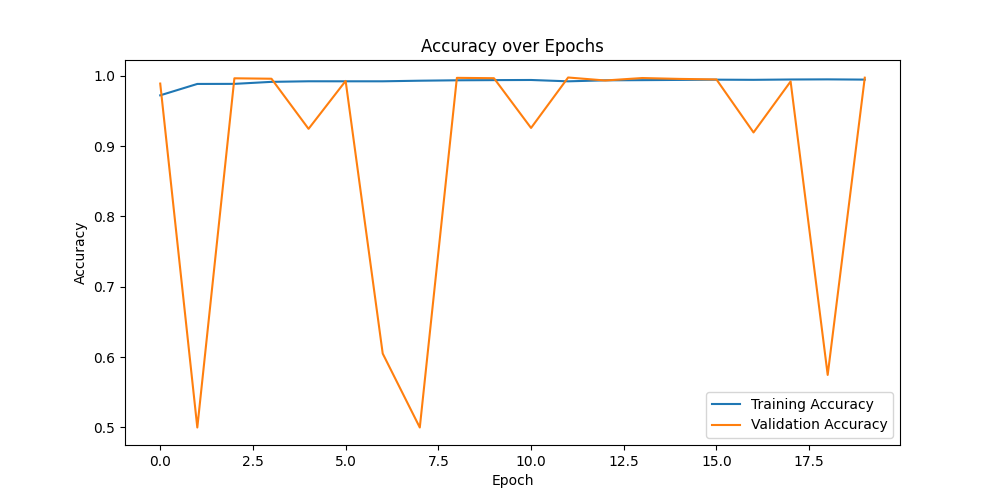
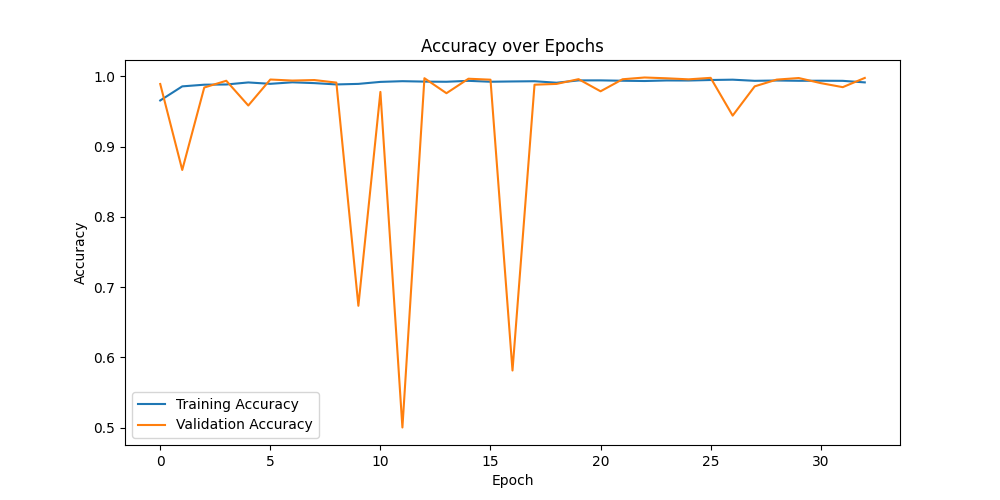
Trained Model 50 Epochs, Early Stopping after 33

diff --git a/src/train.py b/src/train.py
@@ -57,7 +57,7 @@ def train():
     # Train the model
     history = model.fit(
         datagen.flow(X_train, y_train, batch_size=32),
-        epochs=20, # Aus Testzwecken 20
+        epochs=50, # Aus Testzwecken 20
         validation_data=(X_val, y_val),
         callbacks=[checkpoint, early_stop]
     )

diff --git a/README.md b/README.md
@@ -27,7 +27,7 @@ The dataset comprises images categorized into two classes:
 
 <!-- Ausführungsschritte
     - source crack_env/bin/activate
-    - python3 src/data_preprocessing.pay
+    - python3 src/data_preprocessing.py
     - python3 src/eda.py
     - python3 src/model.py
     - python3 src/train.py
